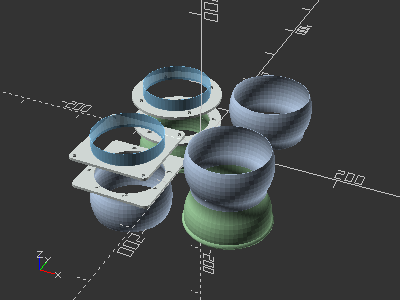
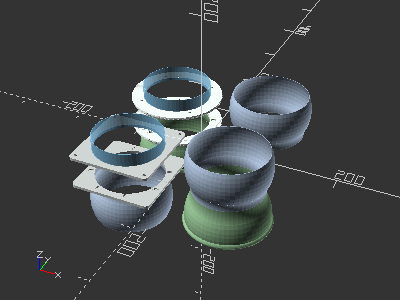
Add plate edge knurling option

diff --git a/modular-hose/README.md b/modular-hose/README.md
@@ -17,6 +17,8 @@ This model is licensed under [Creative Commons (4.0 International License) Attri
 This model depends on:
 
 * [The Belfry OpenSCAD Library][bosl]
+* [Knurled Surface Library for OpenSCAD][knurled-openscad], based on [aubenc's
+  library][knurled-openscad-upstream]
 
 Third party components have their own licenses.
 
@@ -24,3 +26,5 @@ Third party components have their own licenses.
 [bosl]: https://github.com/revarbat/BOSL
 [license]: http://creativecommons.org/licenses/by-sa/4.0/
 [license-badge]: /_static/license-badge-cc-by-sa-4.0.svg
+[knurled-openscad]: https://github.com/smkent/knurled-openscad
+[knurled-openscad-upstream]: https://www.thingiverse.com/thing:32122
